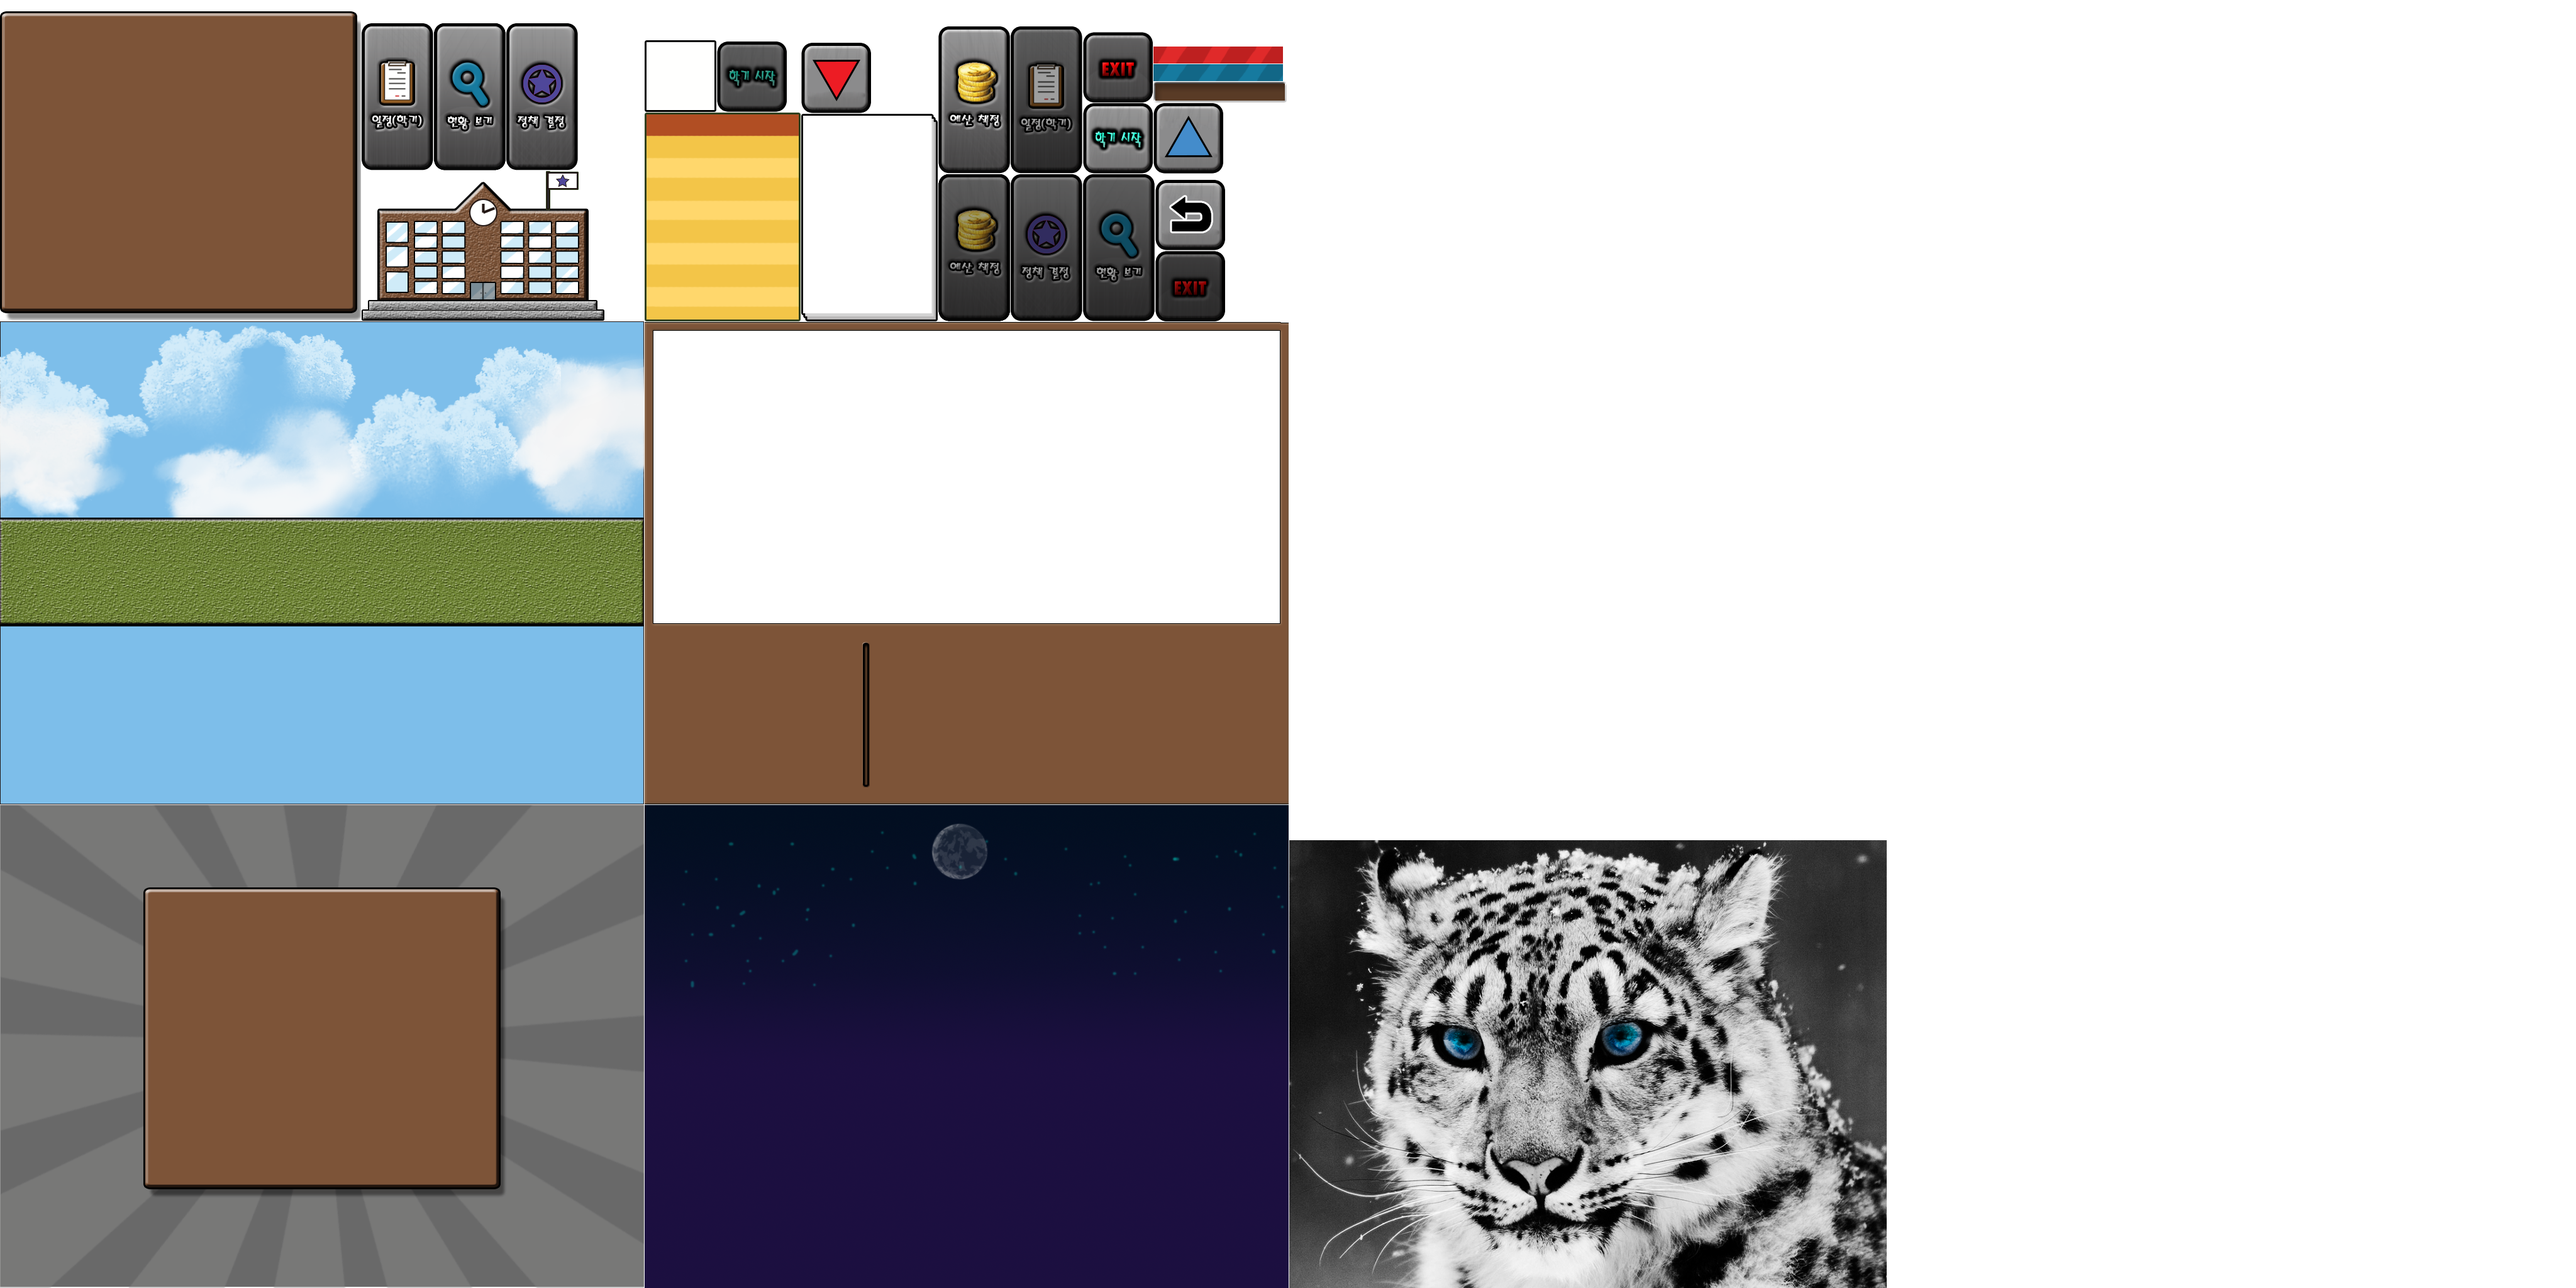
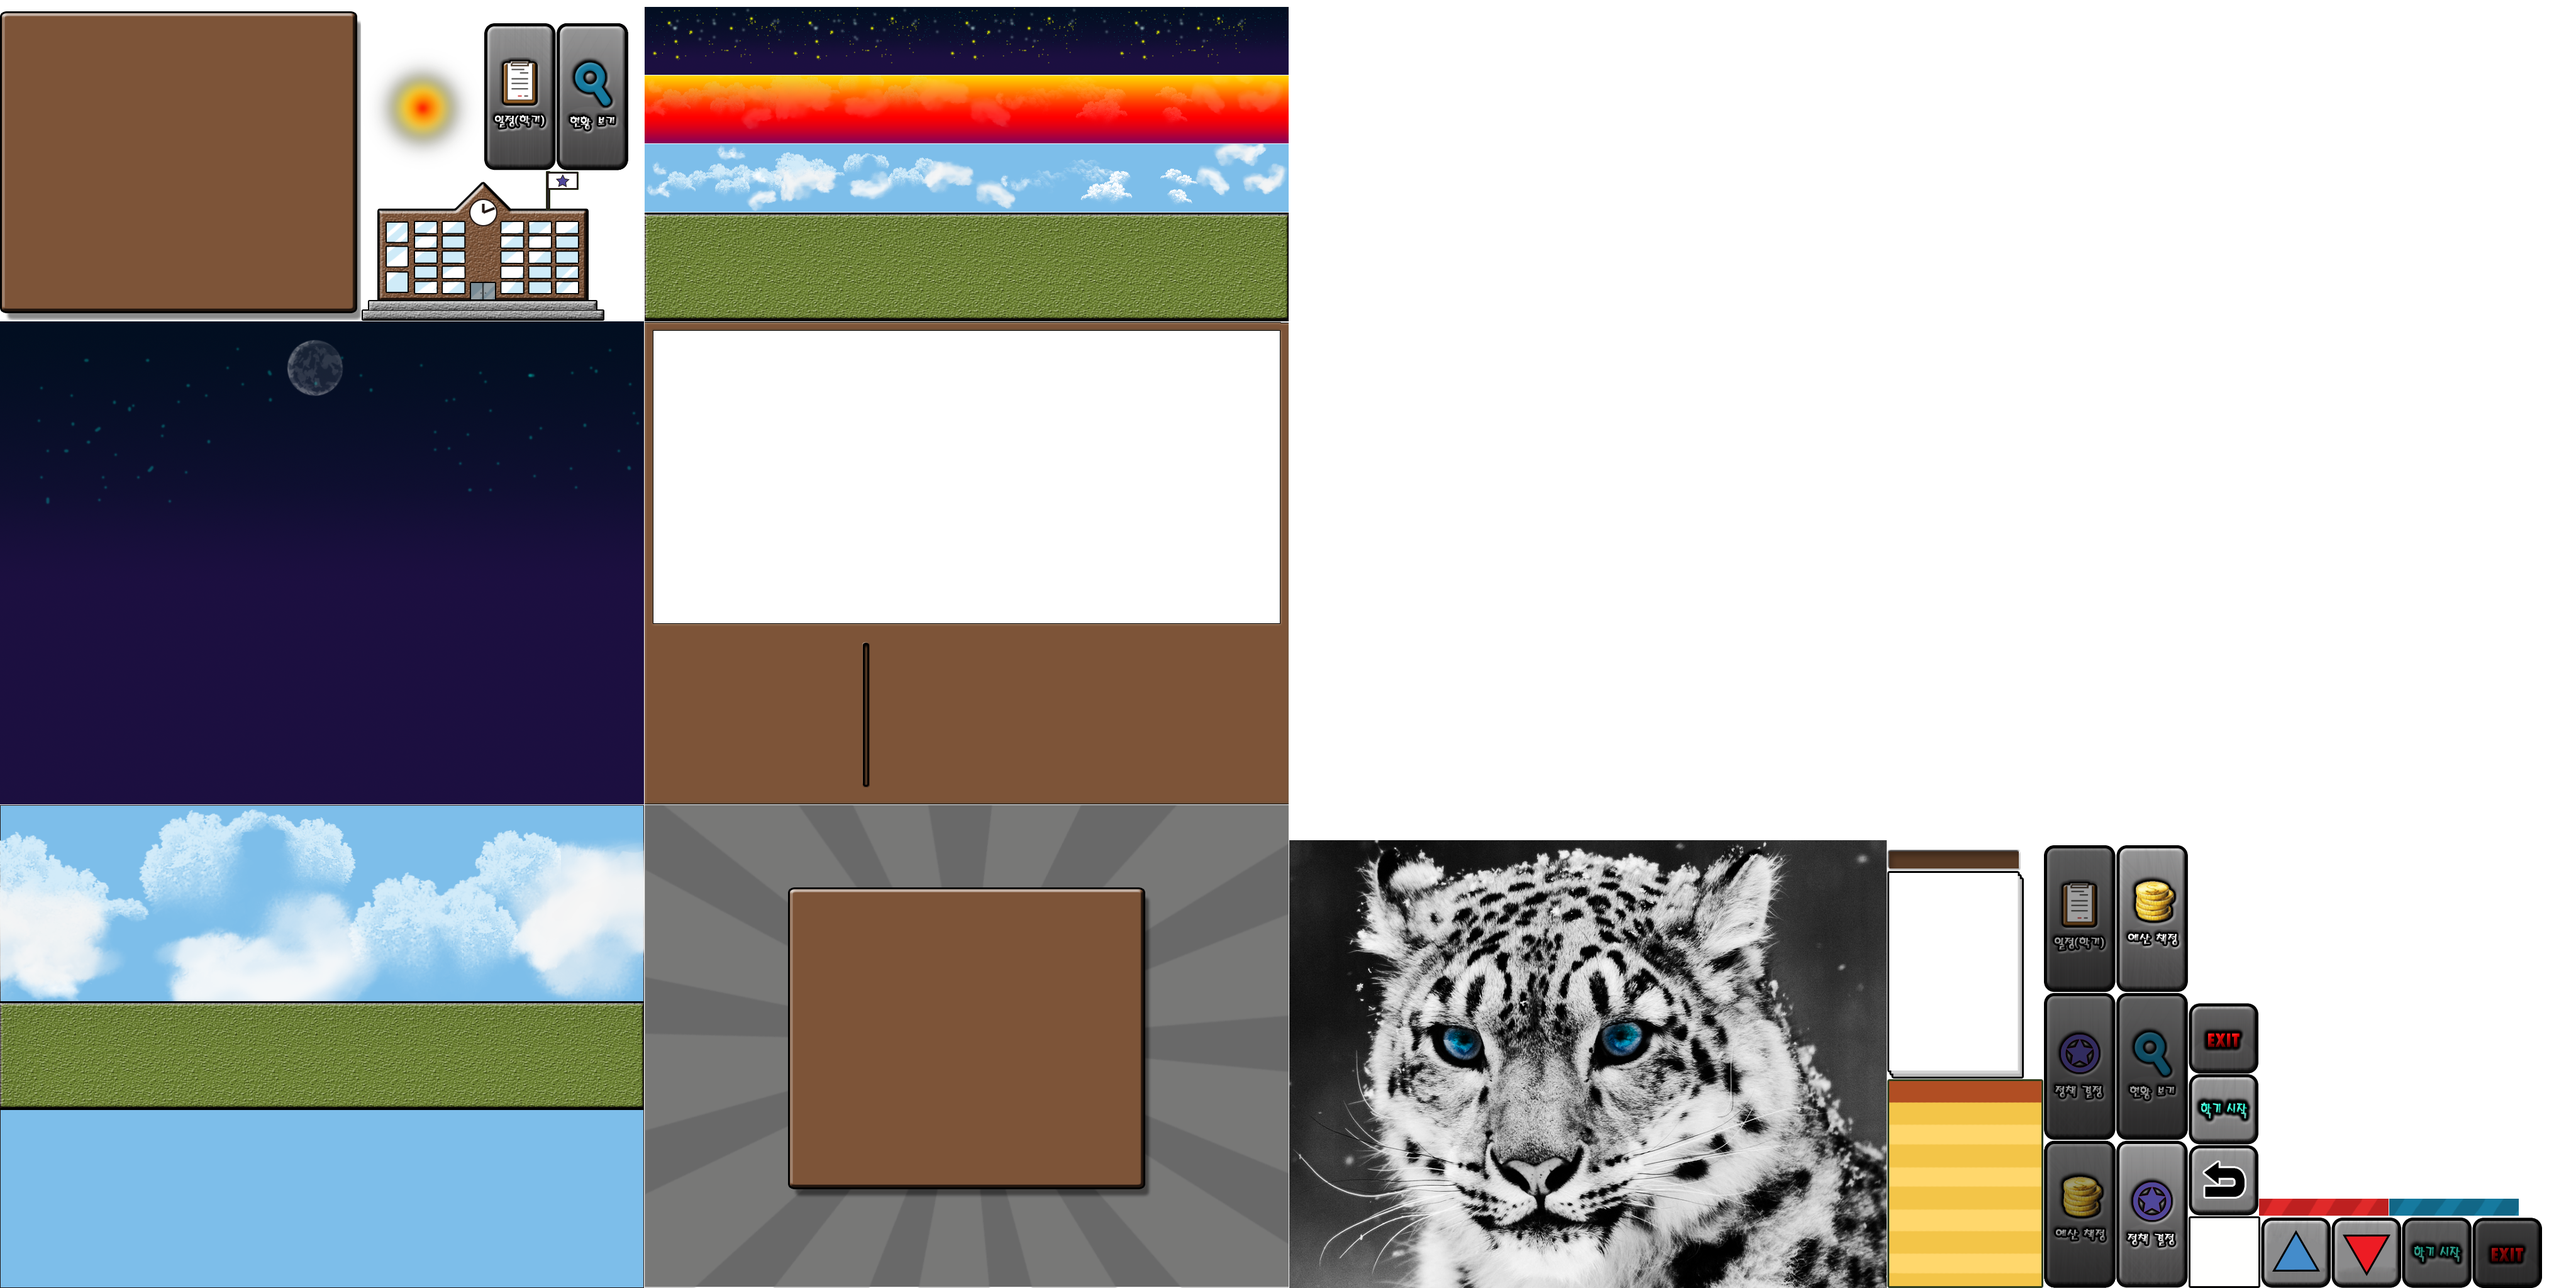
날짜 변화에 따른 백그라운드 이미지 애니메이션 추가.

diff --git a/Assets/Scripts/GameManager.cs b/Assets/Scripts/GameManager.cs
@@ -48,6 +48,10 @@ public class GameManager : MonoBehaviour {
 	public GameObject _strategyPrefab;
 	public GameObject _schedulePrefab;
 
+	public GameObject _backSkyDay;
+	public GameObject _backSkySunset;
+	public GameObject _backSkyNight;
+
 
 	private int[] DayOfMonth = { 31, 28, 31, 30, 31, 30, 31, 31, 30, 31, 30, 31 };
 
@@ -84,19 +88,50 @@ public class GameManager : MonoBehaviour {
 		_gaugeMorality.value = (float)(_player.GetStatus().Morality / Player.Status.Max);
 		_gaugeSpecialty.value = (float)(_player.GetStatus().Specialty / Player.Status.Max);
 		_gaugeStress.value = (float)(_player.GetStatus().Stress / Player.Status.Max);
-    }
-    
-    public void OnClickNextMonth() {
+	}
+	
+	public void OnClickNextMonth() {
 		if( _currMonth % MonthPerYear == 1 ) {
 			_mainButton2.enabled = false;
 		}
-		StartCoroutine ( "NextMonth", 1 );
+
+
+		StartCoroutine ( "NextMonth", 0.2f );
 	}
-	public IEnumerator NextMonth(int delay) {
+	public IEnumerator NextMonth(float delay) {
 		int totalDay = DayOfMonth[_currMonth % MonthPerYear - 1];
 		int eventDay = Random.Range( 1, totalDay + 1 );
 
+		int[] endOfAnimationDay = new int[5];
+		endOfAnimationDay [0] = 1;
+		endOfAnimationDay [1] = (totalDay / 3) * 1;
+		endOfAnimationDay [2] = (totalDay / 3) * 2;
+		endOfAnimationDay [3] = (totalDay / 3) * 3;
+		endOfAnimationDay [4] = totalDay;
+		int currAnimation = 0;
+
 		for( int i = 1; i <= totalDay; i ++ ) {
+			if( i == endOfAnimationDay[ currAnimation ] && currAnimation <= 2 ) {
+				int diff = endOfAnimationDay[ currAnimation + 1 ] - endOfAnimationDay[ currAnimation ];
+				float duration = diff * delay;
+
+				if( currAnimation == 0 ) {
+					TweenAlpha.Begin (_backSkyDay, duration, 0);
+					iTween.MoveTo (_backSkyDay, iTween.Hash ("X", 2, 
+						"time", duration));
+				} else if( currAnimation == 1 ) {
+					TweenAlpha.Begin (_backSkySunset, duration, 0);
+					iTween.MoveTo (_backSkySunset, iTween.Hash ("X", 2, 
+						"time", duration));
+				} else if( currAnimation == 2 ) {
+					TweenAlpha.Begin (_backSkyNight, duration, 0);
+					iTween.MoveTo (_backSkyNight, iTween.Hash ("X", 2, 
+						"time", duration));
+				}
+
+				currAnimation++;
+			}
+
 			if( i == eventDay ) {
 				if( _skipEventFlag )
 					continue;
@@ -116,7 +151,7 @@ public class GameManager : MonoBehaviour {
 			}
 
 			_calendarDay.text = i + "";
-			yield return new WaitForSeconds( 0.05f );
+			yield return new WaitForSeconds( delay );
 		}
 
 		_currMonth++;
@@ -137,6 +172,14 @@ public class GameManager : MonoBehaviour {
 
 		_calendarMonth.text = _currMonth + "";
 		_calendarDay.text = 1 + "";
+
+		// initialize background for next month
+		_backSkyDay.transform.localPosition = new Vector3 (-1092, 223, 0);
+		TweenAlpha.Begin (_backSkyDay, 0.01f, 1.0f);
+		_backSkySunset.transform.localPosition = new Vector3 (-1092, 223, 0);
+		TweenAlpha.Begin (_backSkySunset, 0.01f, 1.0f);
+		_backSkyNight.transform.localPosition = new Vector3 (-1092, 223, 0);
+		TweenAlpha.Begin (_backSkyNight, 0.01f, 1.0f);
 	}
 
 	public void OnClickBudget() {
